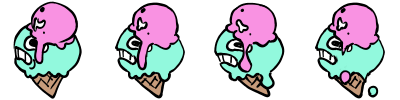
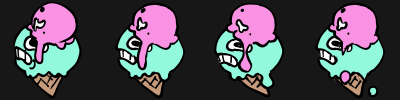
Added Enemy animations

diff --git a/Enemy.py b/Enemy.py
@@ -1,41 +1,52 @@
 # Assignment 2
 
 import random
-import pygame
+import pygame as PG
 import sys
 import math
+import pygame.image as PI
 
-class Enemy(pygame.sprite.Sprite):
+PG.init()
+
+class Enemy(PG.sprite.Sprite):
     IMAGE_UP = None
     IMAGE_DOWN = None
     IMAGE_RIGHT = None
     IMAGE_LEFT = None
 
+    CYCLE = .6
+
     def __init__(self, screen, speed):
         # Call the parent class (Sprite) constructor
-        pygame.sprite.Sprite.__init__(self)
-        if not Enemy.IMAGE_UP and not Enemy.IMAGE_DOWN and not Enemy.IMAGE_LEFT and not Enemy.IMAGE_RIGHT:
-            Enemy.IMAGE_UP = pygame.image.load("FPGraphics/Food/IceCreamBack.png").convert_alpha()
-            Enemy.IMAGE_DOWN = pygame.image.load("FPGraphics/Food/IceCreamFront.png").convert_alpha()
-            Enemy.IMAGE_LEFT = pygame.image.load("FPGraphics/Food/IceCreamLeft.png").convert_alpha()
-            Enemy.IMAGE_RIGHT = pygame.image.load("FPGraphics/Food/IceCreamRight.png").convert_alpha()
-        self.image_up = Enemy.IMAGE_UP
+        PG.sprite.Sprite.__init__(self)
+        #if not Enemy.IMAGE_UP and not Enemy.IMAGE_DOWN and not Enemy.IMAGE_LEFT and not Enemy.IMAGE_RIGHT:
+         #   Enemy.IMAGE_UP = PG.image.load("FPGraphics/Food/IceCreamBack.png").convert_alpha()
+          #  Enemy.IMAGE_DOWN = PG.image.load("FPGraphics/Food/IceCreamFront.png").convert_alpha()
+           # Enemy.IMAGE_LEFT = PG.image.load("FPGraphics/Food/IceCreamLeft.png").convert_alpha()
+           # Enemy.IMAGE_RIGHT = PG.image.load("FPGraphics/Food/IceCreamRight.png").convert_alpha()
+        """self.image_up = Enemy.IMAGE_UP
         self.image_down = Enemy.IMAGE_DOWN
         self.image_right = Enemy.IMAGE_RIGHT
-        self.image_left = Enemy.IMAGE_LEFT
-        self.image = None
-
+        self.image_left = Enemy.IMAGE_LEFT"""
+        #self.image = None
+        self.load_images()
         self.screen = screen
         self.swidth = screen.get_width()
         self.sheight = screen.get_height()
-        self.x = random.randint(0, self.swidth - self.image_left.get_width())
-        self.y = random.randint(0, self.sheight - self.image_up.get_height())
+        self.x = random.randint(0, 700)
+        self.y = random.randint(0, 500)
 
         self.speed = speed
         self.direction = random.randint(0, 1)
         self.angle = random.randint(0, 360) * (math.pi/180)
         self.face = 'u' 
+        self.time = 0.0
+        self.frame = 0
+        self.WIDTH = 100
+        self.HEIGHT = 100
 
+    def get_face(self):
+        return self.face
 
     def update(self, interval = 1):
         self.speed
@@ -44,6 +55,34 @@ class Enemy(pygame.sprite.Sprite):
         if self.check_collide() is True:
             self.direction = random.randint(0, 1)
             self.angle = random.randint(0, 360) * (math.pi/180) 
+
+        ENEMY_IMAGE_LENGTH = 4 #all Enemy sprite has 12 frames
+        #update time
+        self.time = self.time + interval
+        if self.time > Enemy.CYCLE:
+            self.time = 0.0
+        #update frame?
+        frame = int(self.time / (Enemy.CYCLE / ENEMY_IMAGE_LENGTH))
+        if frame != self.frame:
+                self.frame = frame
+                if (self.face == 'r'):
+                    self.update_image(self.IMAGES_RIGHT)
+                elif (self.face == 'u'):
+                    self.update_image(self.IMAGES_BACK)
+                elif (self.face == 'l'):
+                    self.update_image(self.IMAGES_LEFT)
+                elif (self.face == 'd'):
+                    self.update_image(self.IMAGES_FRONT)
+                elif(self.face == 'rs'):
+                    self.image = self.IMAGES_RIGHT[0]
+                elif(self.face == 'us'):
+                    self.image = self.IMAGES_BACK[0]
+                elif(self.face == 'ls'):
+                    self.image = self.IMAGES_LEFT[0]
+                elif(self.face == 'ds'):
+                    self.image = self.IMAGES_FRONT[0]
+                else:
+                    self.image = PI.load("FPGraphics/Food/IceCreamWalkFront.png").convert_alpha()
 
 
     def move(self, interval):
@@ -57,15 +96,23 @@ class Enemy(pygame.sprite.Sprite):
             self.y += dist * interval*math.cos(self.angle)
 
 
-    def set_face(self, player_face):
-        if player_face == 'u':
-            self.image = self.image_down
-        elif player_face == 'd':
-            self.image = self.image_up
-        elif player_face == 'l':
-            self.image = self.image_right
-        elif player_face == 'r':
-            self.image = self.image_left
+    def set_face(self, Enemy_face):
+        if Enemy_face == 'u':
+            self.update_image(self.IMAGES_FRONT)
+        elif Enemy_face == 'd':
+            self.update_image(self.IMAGES_BACK)            
+        elif Enemy_face == 'l':
+            self.update_image(self.IMAGES_RIGHT)
+        elif Enemy_face == 'r':
+            self.update_image(self.IMAGES_LEFT)       
+        elif(self.face == 'rs'):
+            self.update_image(self.IMAGES_LEFT)
+        elif(self.face == 'us'):
+            self.update_image(self.IMAGES_FRONT)
+        elif(self.face == 'ls'):
+            self.update_image(self.IMAGES_RIGHT)
+        elif(self.face == 'ds'):
+            self.update_image(self.IMAGES_BACK)
 
     def draw(self):
         """ Draw on surface """
@@ -77,18 +124,46 @@ class Enemy(pygame.sprite.Sprite):
         if self.x < 0:
             self.x = 0
             collide = True
-        elif self.x > (self.swidth - self.image_right.get_width()):
-            self.x = self.swidth - self.image_right.get_width()
+        elif self.x > (self.swidth - self.WIDTH):
+            self.x = self.swidth - self.WIDTH
             collide = True
         if self.y < 0:
             self.y = 0
             collide = True
-        elif self.y > (self.sheight - self.image_down.get_height()):
-            self.y = (self.sheight - self.image_down.get_height())
+        elif self.y > (self.sheight - self.HEIGHT):
+            self.y = (self.sheight - self.HEIGHT)
             collide = True
         return collide
                 
-        
-    
+    def load_images_helper(self, imageArray, sheet):
+        #key = sheet.get_at((0,0))
+        #hereeeeee
+        alphabg = (23,23,23)
+        for i in range(0,4):
+            surface = PG.Surface((100, 100))
+            surface.set_colorkey(alphabg)
+            surface.blit(sheet, (0,0), (i*100, 0, 100, 100))
+            imageArray.append(surface)
+        return imageArray
+
+    def load_images(self):
+        Enemy.IMAGES_RIGHT = []
+        Enemy.IMAGES_LEFT = []
+        Enemy.IMAGES_FRONT = []
+        Enemy.IMAGES_BACK = []
+        sheetR = PI.load("FPGraphics/Food/IceCreamWalkRight.png").convert_alpha()
+        sheetL = PI.load("FPGraphics/Food/IceCreamWalkLeft.png").convert_alpha()
+        sheetF = PI.load("FPGraphics/Food/IceCreamWalkFront.png").convert_alpha()
+        sheetB = PI.load("FPGraphics/Food/IceCreamWalkBack.png").convert_alpha()
+        Enemy.IMAGES_RIGHT = self.load_images_helper(Enemy.IMAGES_RIGHT, sheetR)
+        Enemy.IMAGES_LEFT = self.load_images_helper(Enemy.IMAGES_LEFT, sheetL)
+        Enemy.IMAGES_FRONT = self.load_images_helper(Enemy.IMAGES_FRONT, sheetF)
+        Enemy.IMAGES_BACK = self.load_images_helper(Enemy.IMAGES_BACK, sheetB)
+
+#this will all end up in the key handler
+    def update_image(self, imageArray):
+        self.image = imageArray[self.frame].convert_alpha()
+        self.rect = self.image.get_rect()
+        self.rect.center = (self.WIDTH/2, self.HEIGHT/2)
     
 

diff --git a/Player.py b/Player.py
@@ -151,19 +151,20 @@ class Player(PS.Sprite):
     def load_images_helper(self, imageArray, sheet):
         #key = sheet.get_at((0,0))
         #hereeeeee
+        alphabg = (23,23,23)
         for i in range(3,7):
             surface = PG.Surface((100, 100))
-            #surface.set_colorkey(key)
+            surface.set_colorkey(alphabg)
             surface.blit(sheet, (0,0), (i*100, 0, 100, 100))
             imageArray.append(surface)
         for i in range(5,0,-1):
             surface = PG.Surface((100, 100))
-            #surface.set_colorkey(key)
+            surface.set_colorkey(alphabg)
             surface.blit(sheet, (0,0), (i*100, 0, 100, 100))
             imageArray.append(surface)
         for i in range(0,3):
             surface = PG.Surface((100, 100))
-            #surface.set_colorkey(key)
+            surface.set_colorkey(alphabg)
             surface.blit(sheet, (0,0), (i*100, 0, 100, 100))
             imageArray.append(surface)
         return imageArray
@@ -184,7 +185,7 @@ class Player(PS.Sprite):
 
 #this will all end up in the key handler
     def update_image(self, imageArray):
-        self.image = imageArray[self.frame]
+        self.image = imageArray[self.frame].convert_alpha()
         self.rect = self.image.get_rect()
         self.rect.center = (Player.WIDTH/2, Player.HEIGHT/2)
 

diff --git a/Setup.py b/Setup.py
@@ -13,6 +13,7 @@ try:
     import pygame.color as PC
     import pygame.event as PE
     
+    
 except ImportError, err:
     print "%s Failed to Load Module: %s" % (__file__, err)
     import sys
@@ -70,6 +71,7 @@ class Game(object):
             #move and draw the enemies
             player_face = self.character.get_face()
             for enemy in self.enemy_list.sprites():
+                Enemy_face = enemy.get_face()
                 enemy.set_face(player_face)
                 enemy.draw()
             self.character.draw(self.screen) # draw the character to the screen
